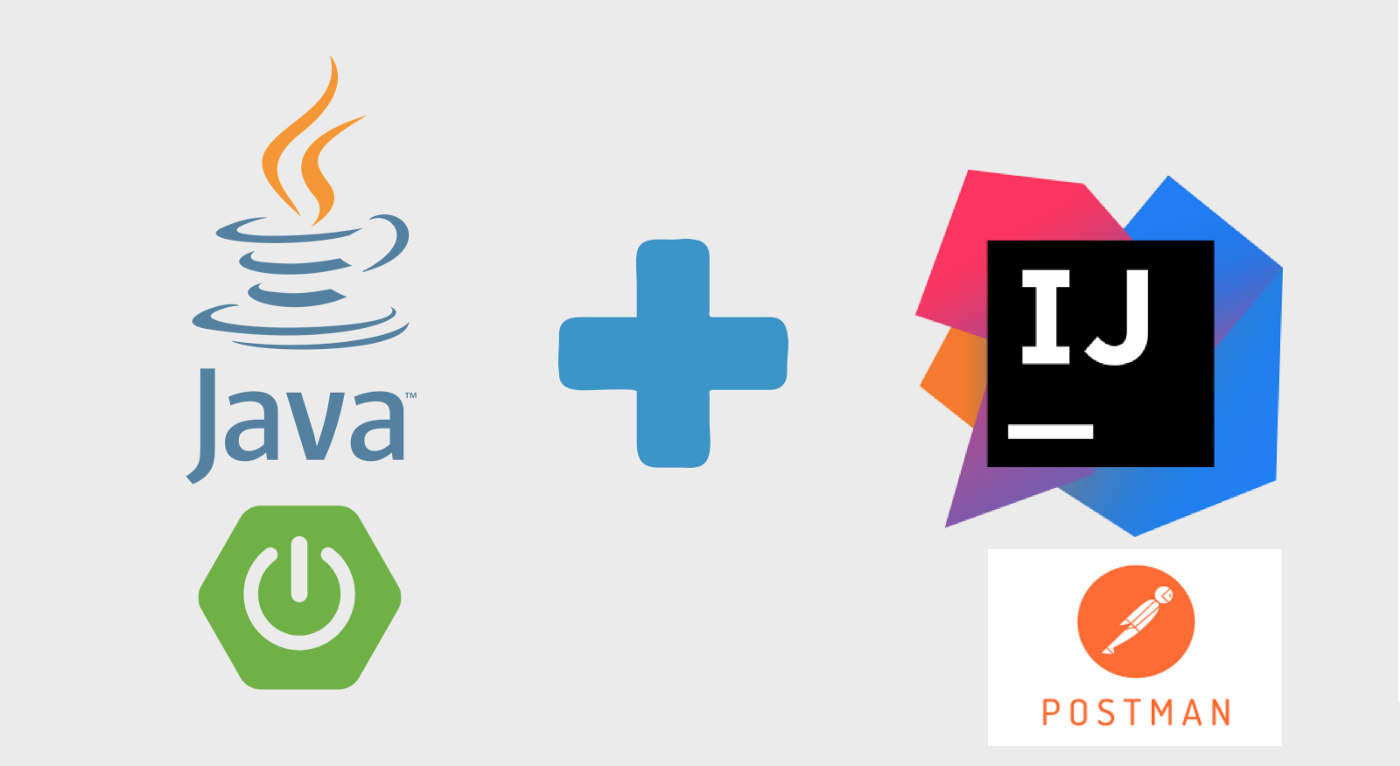
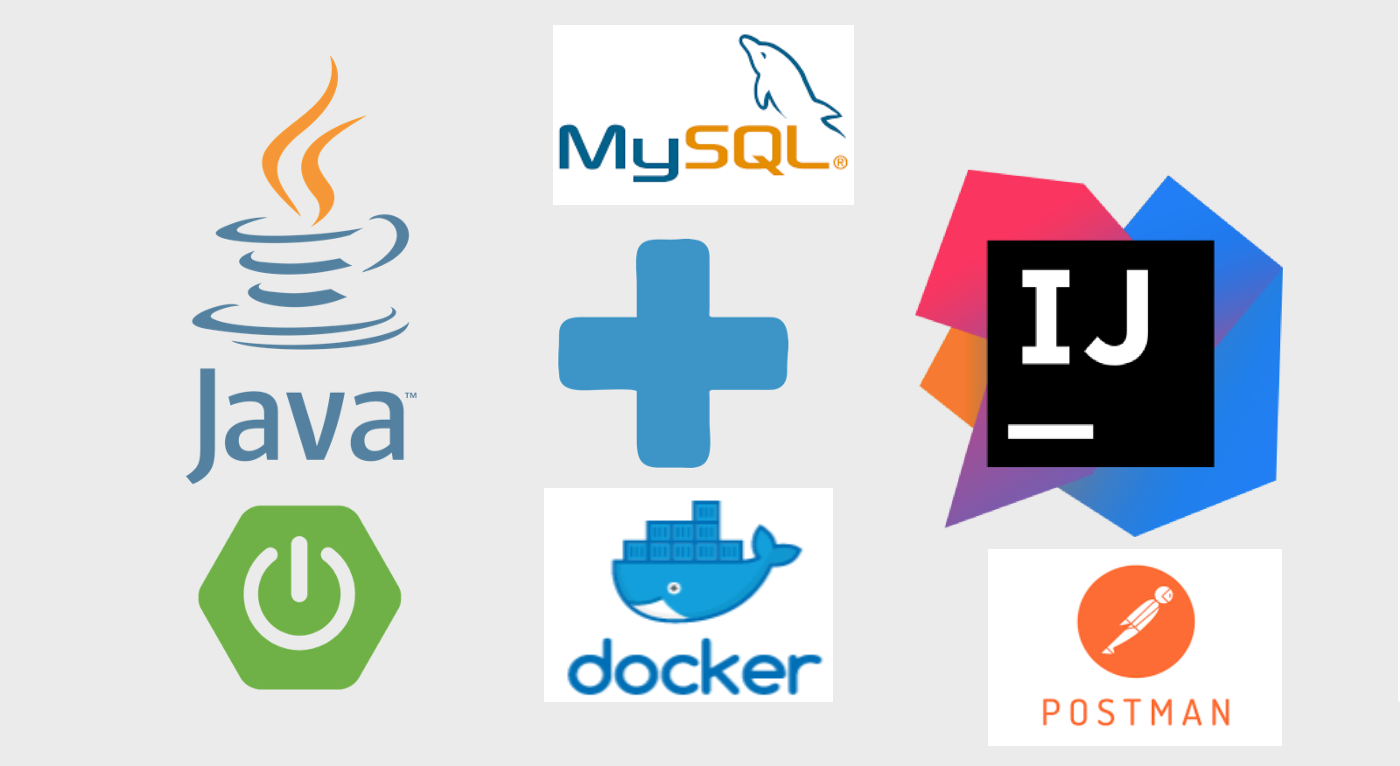
Desafio8 concluído com sucesso!

Changed region(s): [[0.3993, 0.03, 0.6143, 0.2402], [0.43, 0.6305, 0.5836, 0.8107], [0.3993, 0.8407, 0.5836, 0.9308]]

diff --git a/src/main/java/com/nttdata/desafiobecajava/exception/handle/ExceptionHandleDefaultTratamentoErros.java b/src/main/java/com/nttdata/desafiobecajava/exception/handle/ExceptionHandleDefaultTratamentoErros.java
@@ -1,6 +1,10 @@
 package com.nttdata.desafiobecajava.exception.handle;
 
 import com.nttdata.desafiobecajava.exception.DadosVazioNullPointerException;
+import com.sun.net.httpserver.Authenticator;
+import org.hibernate.criterion.Example;
+import org.hibernate.criterion.NotNullExpression;
+import org.hibernate.hql.internal.ast.tree.Statement;
 import org.springframework.dao.EmptyResultDataAccessException;
 import org.springframework.dao.InvalidDataAccessApiUsageException;
 import org.springframework.http.HttpStatus;
@@ -8,15 +12,19 @@ import org.springframework.http.ResponseEntity;
 import org.springframework.http.converter.HttpMessageNotReadableException;
 import org.springframework.web.bind.annotation.ControllerAdvice;
 import org.springframework.web.bind.annotation.ExceptionHandler;
+import org.w3c.dom.events.Event;
 
 
+import javax.naming.NotContextException;
+import javax.validation.ConstraintViolationException;
+import javax.validation.constraints.NotNull;
 import java.time.LocalDateTime;
 
 @ControllerAdvice
 public class ExceptionHandleDefaultTratamentoErros {
 
     @ExceptionHandler(HttpMessageNotReadableException.class)
-    public ResponseEntity<ExceptionDefault> handle (HttpMessageNotReadableException e){
+    public ResponseEntity<ExceptionDefault> handle(HttpMessageNotReadableException e) {
         ExceptionDefault exceptionDefault = new ExceptionDefault();
         exceptionDefault.setMensagem(e.getMessage());
         exceptionDefault.setHours(LocalDateTime.now());
@@ -24,8 +32,9 @@ public class ExceptionHandleDefaultTratamentoErros {
 
         return ResponseEntity.status(exceptionDefault.getStatus()).body(exceptionDefault);
     }
+
     @ExceptionHandler(DadosVazioNullPointerException.class)
-    public ResponseEntity<ExceptionDefault> handle (DadosVazioNullPointerException e){
+    public ResponseEntity<ExceptionDefault> handle(DadosVazioNullPointerException e) {
         ExceptionDefault exceptionDefault = new ExceptionDefault();
         exceptionDefault.setMensagem(e.getMessage());
         exceptionDefault.setHours(LocalDateTime.now());
@@ -33,18 +42,29 @@ public class ExceptionHandleDefaultTratamentoErros {
 
         return ResponseEntity.status(exceptionDefault.getStatus()).body(exceptionDefault);
     }
+
     @ExceptionHandler(InvalidDataAccessApiUsageException.class)
-    public ResponseEntity<ExceptionDefault> handle (InvalidDataAccessApiUsageException e){
+    public ResponseEntity<ExceptionDefault> handle(InvalidDataAccessApiUsageException e) {
         ExceptionDefault exceptionDefault = new ExceptionDefault();
         exceptionDefault.setMensagem(e.getMessage());
         exceptionDefault.setHours(LocalDateTime.now());
         exceptionDefault.setStatus(HttpStatus.BAD_REQUEST.value());
         return ResponseEntity.status(exceptionDefault.getStatus()).body(exceptionDefault);
     }
+
     @ExceptionHandler(EmptyResultDataAccessException.class)
-    public ResponseEntity<ExceptionDefault> handle (EmptyResultDataAccessException e){
+    public ResponseEntity<ExceptionDefault> handle(EmptyResultDataAccessException e) {
         ExceptionDefault exceptionDefault = new ExceptionDefault();
         exceptionDefault.setMensagem("Id não existe na base de dados, por favor verificar o ID informado!");
+        exceptionDefault.setHours(LocalDateTime.now());
+        exceptionDefault.setStatus(HttpStatus.BAD_REQUEST.value());
+        return ResponseEntity.status(exceptionDefault.getStatus()).body(exceptionDefault);
+    }
+
+    @ExceptionHandler(ConstraintViolationException.class)
+    public ResponseEntity<ExceptionDefault> handle(ConstraintViolationException e) {
+        ExceptionDefault exceptionDefault = new ExceptionDefault();
+        exceptionDefault.setMensagem(" Os campos não pode está vazio ou em branco!");
         exceptionDefault.setHours(LocalDateTime.now());
         exceptionDefault.setStatus(HttpStatus.BAD_REQUEST.value());
         return ResponseEntity.status(exceptionDefault.getStatus()).body(exceptionDefault);

diff --git a/src/main/java/com/nttdata/desafiobecajava/controllers/VeiculoController.java b/src/main/java/com/nttdata/desafiobecajava/controllers/VeiculoController.java
@@ -2,6 +2,7 @@ package com.nttdata.desafiobecajava.controllers;
 
 
 import com.nttdata.desafiobecajava.dtos.requests.VeiculoRequest;
+import com.nttdata.desafiobecajava.dtos.responses.TipoResponse;
 import com.nttdata.desafiobecajava.dtos.responses.VeiculoResponse;
 import com.nttdata.desafiobecajava.exception.DadosVazioNullPointerException;
 import com.nttdata.desafiobecajava.mappers.MapperVeiculoToVeiculoResponse;
@@ -26,8 +27,8 @@ public class VeiculoController {
     @PostMapping
     public ResponseEntity<VeiculoResponse> criar(@RequestBody @Valid VeiculoRequest veiculoRequest) {
 
-        if (veiculoRequest.getPlaca()==null|| veiculoRequest.getPlaca().equals("")||
-                veiculoRequest.getModelo()==null||veiculoRequest.getModelo().equals("")){
+        if (veiculoRequest.getPlaca() == null || veiculoRequest.getPlaca().equals("") ||
+                veiculoRequest.getModelo() == null || veiculoRequest.getModelo().equals("")) {
 
             throw new DadosVazioNullPointerException("Os campos placa do carro ou moodelo não pode está nulo ou sem informação ");
 
@@ -35,13 +36,14 @@ public class VeiculoController {
 
         VeiculoResponse veiculoCriado = veiculoService.criar(veiculoRequest);
 
+
         return ResponseEntity.created(null).body(veiculoCriado);
     }
 
     @PatchMapping("/{id}")
     public ResponseEntity<VeiculoResponse> editar(@RequestBody VeiculoRequest veiculoRequest, @PathVariable Long id) {
 
-        VeiculoResponse editar = veiculoService.editar(veiculoRequest,id);
+        VeiculoResponse editar = veiculoService.editar(veiculoRequest, id);
 
         return ResponseEntity.ok(editar);
     }
@@ -67,7 +69,7 @@ public class VeiculoController {
 
         veiculoService.deletar(id);
 
-        return ResponseEntity.noContent().build();
+        return ResponseEntity.ok("Veiculo com ID=> " + "[" + id + "]" + " foi excluído com sucesso!");
     }
 }
 

diff --git a/src/main/java/com/nttdata/desafiobecajava/controllers/TipoController.java b/src/main/java/com/nttdata/desafiobecajava/controllers/TipoController.java
@@ -26,7 +26,7 @@ public class TipoController {
     @PostMapping
     public ResponseEntity<TipoResponse> criar(@RequestBody @Valid TipoRequest tipoRequest) {
 
-        if (tipoRequest.getDescricao()==null || tipoRequest.getDescricao().equals("")) {
+        if (tipoRequest.getDescricao() == null || tipoRequest.getDescricao().equals("")) {
 
             throw new DadosVazioNullPointerException("Os campos tipoVeículo ou descrição, não podem está vazio ou ausente !");
         }
@@ -68,6 +68,6 @@ public class TipoController {
 
         tipoService.deletar(id);
 
-        return ResponseEntity.noContent().build();
+        return ResponseEntity.ok("Tipo com ID=> " + "[" + id + "]" + " foi excluído com sucesso!");
     }
 }

diff --git a/src/main/java/com/nttdata/desafiobecajava/services/VeiculoService.java b/src/main/java/com/nttdata/desafiobecajava/services/VeiculoService.java
@@ -1,7 +1,5 @@
 package com.nttdata.desafiobecajava.services;
 
-
-import com.nttdata.desafiobecajava.domains.Tipo;
 import com.nttdata.desafiobecajava.domains.Veiculo;
 import com.nttdata.desafiobecajava.dtos.requests.VeiculoRequest;
 import com.nttdata.desafiobecajava.dtos.responses.VeiculoResponse;
@@ -31,8 +29,8 @@ public class VeiculoService {
 
     public VeiculoResponse criar(VeiculoRequest veiculoRequest) {
 
-        Veiculo veiculo = mapperVeiculoRequestToVeiculo.toModel(veiculoRequest) ;
 
+        Veiculo veiculo = mapperVeiculoRequestToVeiculo.toModel(veiculoRequest) ;
 
         veiculoRepository.save(veiculo);
 

diff --git a/src/main/java/com/nttdata/desafiobecajava/domains/Tipo.java b/src/main/java/com/nttdata/desafiobecajava/domains/Tipo.java
@@ -3,10 +3,7 @@ package com.nttdata.desafiobecajava.domains;
 
 import lombok.Data;
 
-import javax.persistence.Entity;
-import javax.persistence.GeneratedValue;
-import javax.persistence.GenerationType;
-import javax.persistence.Id;
+import javax.persistence.*;
 import javax.validation.constraints.NotBlank;
 
 
@@ -18,7 +15,7 @@ public class Tipo {
     @GeneratedValue(strategy = GenerationType.IDENTITY)
     private Long id;
 
-    @NotBlank(message = "Valor do campo precisa está preenchido!")
+    @NotBlank
     private String tipoVeiculo;
 
     @NotBlank(message = "Valor do campo precisa está preenchido!")

diff --git a/src/main/java/com/nttdata/desafiobecajava/domains/Veiculo.java b/src/main/java/com/nttdata/desafiobecajava/domains/Veiculo.java
@@ -4,7 +4,7 @@ import lombok.Data;
 import javax.persistence.*;
 import javax.validation.constraints.NotBlank;
 import javax.validation.constraints.NotEmpty;
-import javax.validation.constraints.NotNull;
+
 
 @Data
 @Entity
@@ -20,8 +20,9 @@ public class Veiculo {
     @NotBlank(message = "O Campo modelo não pode está ausente ou em branco!")
     private String modelo;
 
-    @OneToOne
+
     //@NotBlank(message = "O Campo tipo não pode está ausente, tem ligação com dados do veículo!")
+    @OneToOne
     private Tipo tipo;
     private String placa;
     private String cor;

diff --git a/src/main/java/com/nttdata/desafiobecajava/services/TipoService.java b/src/main/java/com/nttdata/desafiobecajava/services/TipoService.java
@@ -9,8 +9,6 @@ import com.nttdata.desafiobecajava.mappers.MapperTipoToTipoResponse;
 import com.nttdata.desafiobecajava.repositories.TipoRepository;
 import lombok.RequiredArgsConstructor;;
 import org.springframework.stereotype.Service;
-
-
 import java.util.List;
 import java.util.stream.Collectors;
 

diff --git a/src/main/java/com/nttdata/desafiobecajava/dtos/requests/TipoRequest.java b/src/main/java/com/nttdata/desafiobecajava/dtos/requests/TipoRequest.java
@@ -2,6 +2,9 @@ package com.nttdata.desafiobecajava.dtos.requests;
 
 import lombok.Data;
 
+import javax.persistence.Column;
+
+
 @Data
 public class TipoRequest {
 

diff --git a/src/main/java/com/nttdata/desafiobecajava/dtos/responses/TipoResponse.java b/src/main/java/com/nttdata/desafiobecajava/dtos/responses/TipoResponse.java
@@ -2,6 +2,8 @@ package com.nttdata.desafiobecajava.dtos.responses;
 
 import lombok.Data;
 
+import javax.persistence.Column;
+
 @Data
 public class TipoResponse {
 

diff --git a/README.md b/README.md
@@ -19,13 +19,15 @@ Depois de modelara o projeto com no diagrama de classes, foram cridas as classes
 7. Entendimento de como tratar possáveis erros na API.
 8. Integração do API com Docker.
 
-###Objetivo do projeto
-Aplicação como visa manter a segurança de qualquer veículo venha acessar um determinado local que seja restrito sua entrada, ao ser adicionado informações do veículo da sua placa, modelo, cor , marca e tipo, estará na base de dados daquele estabelecimento para tranquilidade dos clientes e das empresas.  
+### Objetivo do projeto
+Aplicação visa manter a segurança de qualquer veículo venha acessar um determinado local que seja restrito sua entrada, ao ser adicionado informações do veículo da sua placa, modelo, cor , marca e tipo, estará na base de dados daquele estabelecimento para tranquilidade dos clientes e das empresas.  
 ### Tecnologia aplicada:
 * Java versão 11
 * Spring Boot
 * IntelliJ IDEA
 * Postman
+* Doker
+* MySql
 
 ![](img/tecnologia_aplicada.png)
 ##### Teste realizado com método POST:
@@ -33,4 +35,63 @@ Aplicação como visa manter a segurança de qualquer veículo venha acessar um 
 ##### Realizado com método Patch:
 ![](img/img_api_atualizacao-carro.png)
 
-###Utilização banco de dados H2 console do Spring Boot com Postman
+### Utilização banco de dados H2 console do Spring Boot com Postman e JSON
+
+Após criar todas as classes da API REST com Spring boot, foram executadas testar dos Endpoints 
+da API do projeto com H2 que possui embutido um banco de dados e que executar consultas SQL, 
+ao qual foram verificado os seguintes métodos criar, editar, atualizar e excluir, utilizando os 
+recursos do POSTMAN, vamos usar alguns verbos do HTTP que vai prover uma URL que vão 
+indicar qual ação está sendo requisitada pelo consumidor do serviço, 
+para  retornar do resultado foi
+aplicado o JSON.
+#####Depois  startar o projeto Spring no IntelliJ IEDA, podemos navegar para  que nos apresentará uma página de login do H2 console:
+![](img/img_H2Console.png)
+
+####Tela web inicial do H2 console com o banco de dados que executar SQL:
+![](img/img_H2Console_Conectado.png)
+####Seguem exemplo abaixo dos verbos HTTP:
+
+
+**Executando verbo POST para criar um objeto Veículo passando endpoint**
+
+![](img/verbo_POST.png)
+
+**Executando verbo GET para retornar uma lista objeto Veículo atarvés do endpoint**
+
+![](img/verbo_GET.png)
+
+**Executando verbo PATCH passando um endpoint retornar um objeto Veículo que foi alterado**
+
+![](img/verbo_PATCH.png)
+
+**Executando verbo DELETE passando um endpoint que retorna com informação veículo excluído**
+
+![](img/img_delete.jpg)
+
+**Criando as tabelas através dos Endpoints do projeto Spring boot para banco de dados H2 console imagem abaixo:**
+
+![](img/img_criandoTabelas_H2Console.png)
+
+**Inserindo informações nas tabelas criadas com H2 console, exemplo imagem abaixo:**
+
+![](img/img-dados-salvo-no-bancoDados-h2.png)
+
+**Resultado da consulta MySql após realizar a inserção dos dados no Postman.**
+
+![](img/img_BD_MySql.jpg)
+
+**Considerações finais:**
+
+O projeto foi finalizado com alterações no código com inserção do Docker o qual foi criado 
+uma imagem do MySql, ambos fazem parte da finalização do projeto beca Java, tanto Docker e MySql 
+foram instalados no Sistema operacional Windows, e foi necessário fazer todas as configurações 
+para ser usado no projeto conforme documentações dos fabricantes dos sistemas, futuramente vou dar 
+continuidade ao projeto que vai passar por novas atualizações em breve, 
+gerando melhorias no sistema.
+
+**Agradecimentos:**
+Quero agradecer ao meu mentor Vyttor Tavares, por todo suporte, conhecimento e
+orientações necessárias na elaboração e conclusão do projeto de sistema 
+de controle de veículos, e a toda equipe da NTT DATA Europe & LATAM.
+
+**Autor:** Silvio Julio dos Santos
